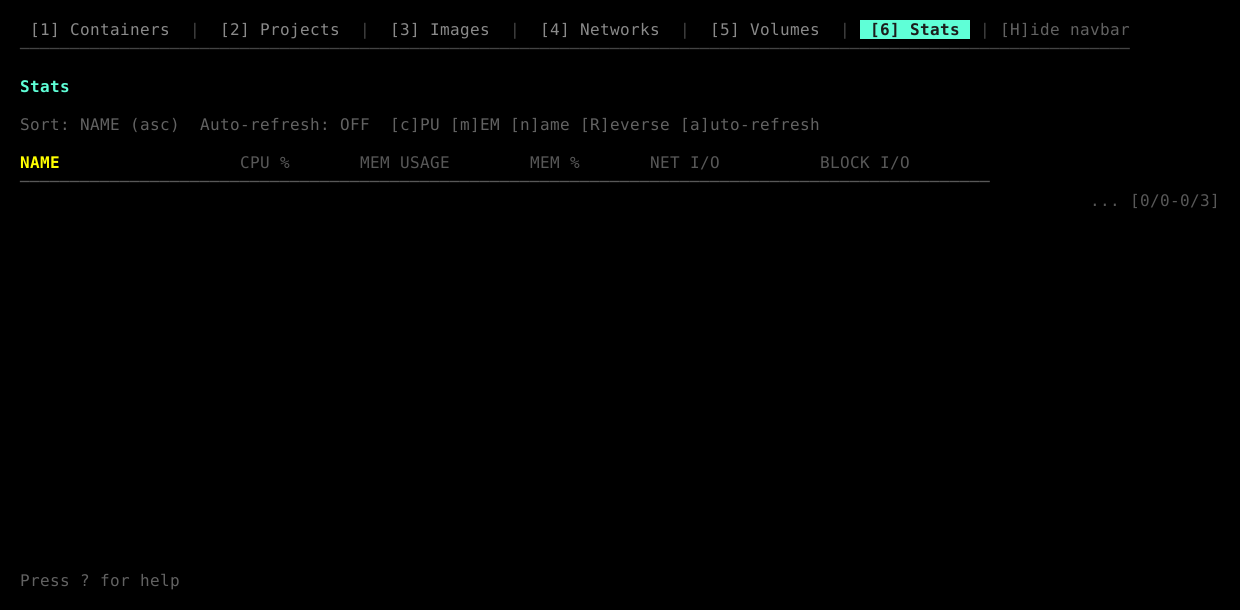
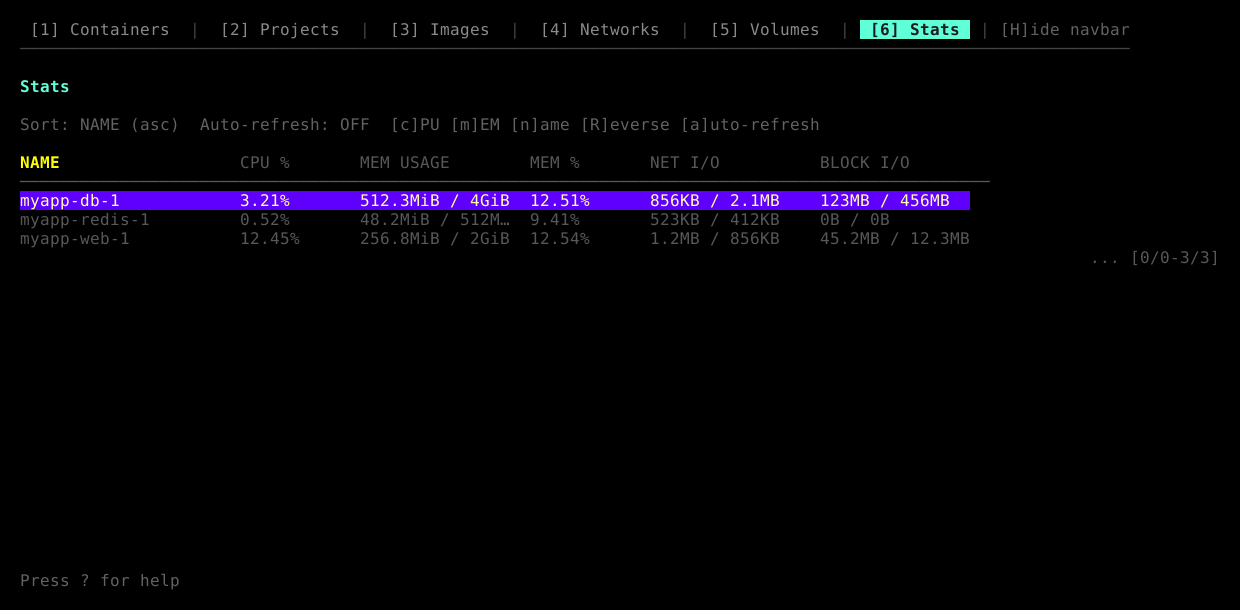
fix: update SetStats to properly initialize table rows for screenshots
The SetStats method in screenshot_helpers.go was not calling buildRows()
and SetRows() after setting the stats data, causing the stats view
screenshot to appear empty. This fix ensures that the table rows are
properly built and the view window is set when generating screenshots.

🤖 Generated with Claude Code

diff --git a/internal/ui/screenshot_helpers.go b/internal/ui/screenshot_helpers.go
@@ -115,6 +115,9 @@ func (m *Model) GetStatsViewModel() *StatsViewModel {
 
 func (vm *StatsViewModel) SetStats(stats []models.ContainerStats) {
 	vm.stats = stats
+	vm.buildRows()
+	// Use a default height for screenshots
+	vm.SetRows(vm.Rows, 20)
 }
 
 func (m *Model) GetTopViewModel() *TopViewModel {
